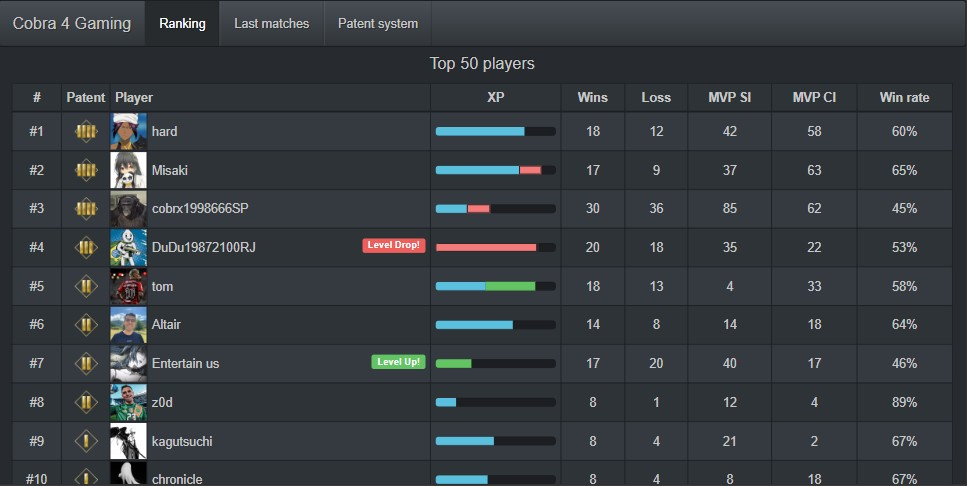
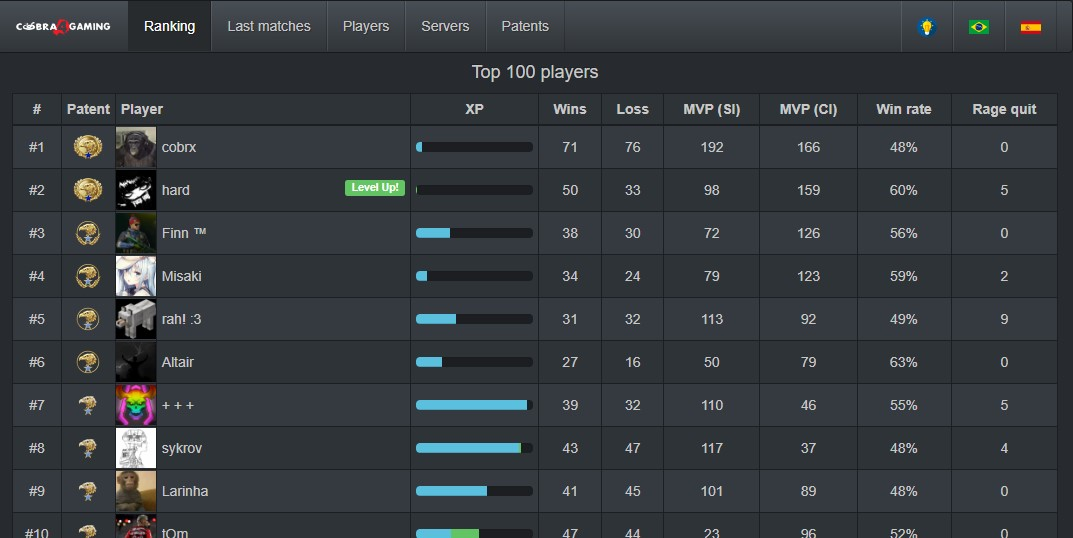
feat: Add dark and light mode screenshots for Ranking Interface

diff --git a/README.md b/README.md
@@ -109,25 +109,31 @@ confogl_addcvar open_ai_url ""
 Here are some example screenshots from the site [https://l4d2.com.br/](https://l4d2.com.br/):
 
 <p align="center">
-Ranking Interface
+Ranking Interface (dark mode)
 </p>
 
 ![Ranking Interface](https://github.com/altair-sossai/l4d2-playstats-web/blob/main/screenshot/screenshot_01.jpg)
 
 <p align="center">
+Ranking Interface (light mode)
+</p>
+
+![Ranking Interface](https://github.com/altair-sossai/l4d2-playstats-web/blob/main/screenshot/screenshot_02.jpg)
+
+<p align="center">
 Last matches
 </p>
 
-![Last matches](https://github.com/altair-sossai/l4d2-playstats-web/blob/main/screenshot/screenshot_02.jpg)
+![Last matches](https://github.com/altair-sossai/l4d2-playstats-web/blob/main/screenshot/screenshot_03.jpg)
 
 <p align="center">
 Player Comparison
 </p>
 
-![Player Comparison](https://github.com/altair-sossai/l4d2-playstats-web/blob/main/screenshot/screenshot_03.jpg)
+![Player Comparison](https://github.com/altair-sossai/l4d2-playstats-web/blob/main/screenshot/screenshot_04.jpg)
 
 <p align="center">
 Player rank displayed in-game
 </p>
 
-![Player Comparison](https://github.com/altair-sossai/l4d2-playstats-web/blob/main/screenshot/screenshot_04.jpg)
+![Player Comparison](https://github.com/altair-sossai/l4d2-playstats-web/blob/main/screenshot/screenshot_05.jpg)
